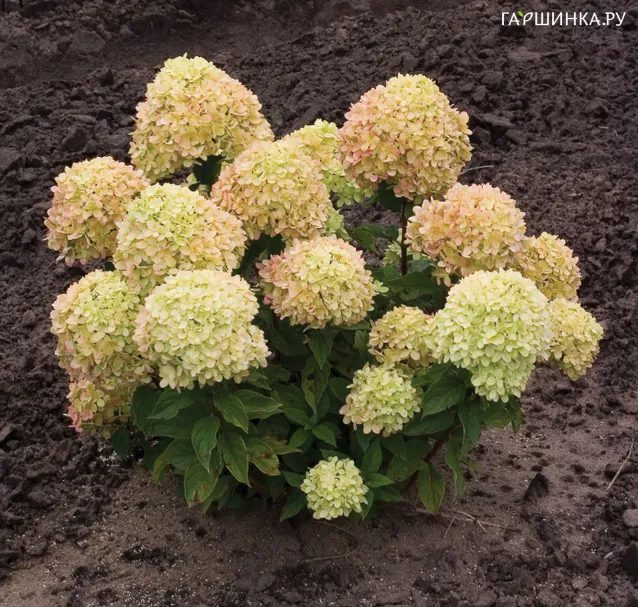
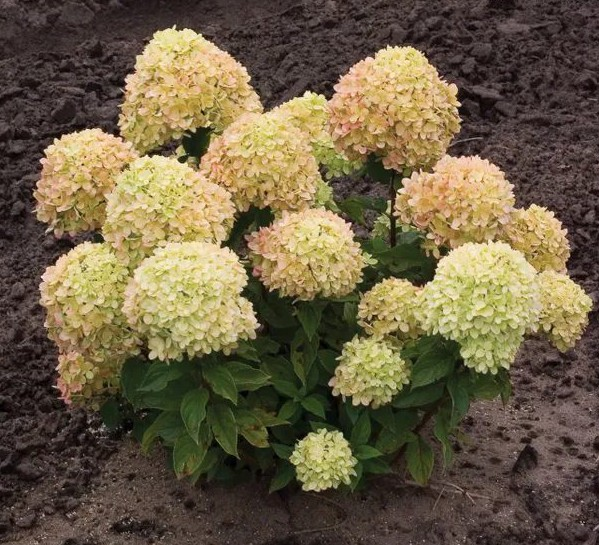
v37: витрина нового сезона — 11 товаров с фото, гарантии, статьи «Посадка и уход», подтверждение заказа, кнопка «Отправить в MAX».  починка корзины (удаление по ключу варианта, ноль убирает строку, без минуса, лимит «+» по остатку), «Выбрать» на карточках с вариантами, краш автовыбора варианта в мод

diff --git a/index.html b/index.html
@@ -169,7 +169,10 @@
             <span class="social-btn__icon social-btn__icon--img" aria-hidden="true"><svg class="max-logo" width="25" height="24" viewBox="0 0 25 24" fill="none" xmlns="http://www.w3.org/2000/svg"><path fill-rule="evenodd" clip-rule="evenodd" d="M12.3405 23.9342C9.97568 23.9342 8.87728 23.5899 6.97252 22.2125C5.76041 23.762 1.94518 24.9672 1.77774 22.9012C1.77774 21.3535 1.42788 20.0492 1.04269 18.6132C0.570922 16.8544 0.0461426 14.898 0.0461426 12.0546C0.0461426 5.27426 5.6424 0.175079 12.2777 0.175079C18.913 0.175079 24.1153 5.52322 24.1153 12.1205C24.1153 18.7178 18.7474 23.9342 12.3405 23.9342ZM12.4368 6.03673C9.20791 5.86848 6.68817 8.0948 6.13253 11.5794C5.6724 14.465 6.48821 17.9812 7.18602 18.1582C7.51488 18.2416 8.35763 17.564 8.87711 17.0475C9.73154 17.5981 10.712 18.0245 11.8019 18.0813C15.1168 18.254 18.0544 15.6761 18.228 12.382C18.4016 9.08792 15.7517 6.20946 12.4368 6.03673Z" fill="currentColor"></path></svg></span>
             <span class="social-btn__label">Канал в MAX</span>
           </a>
-          <p class="contacts__note" id="contacts-phone-label"></p>
+          <a class="social-btn social-btn--tg" href="https://t.me/chydni_sad" target="_blank" rel="noopener noreferrer">
+            <span class="social-btn__icon" aria-hidden="true"><svg width="22" height="22" viewBox="0 0 24 24" fill="#fff"><path d="M21.9 3.4 2.5 10.9c-.9.35-.88 1.63.03 1.95l4.9 1.7 1.9 5.8c.27.83 1.34 1.02 1.88.33l2.7-3.5 4.9 3.6c.78.57 1.9.15 2.1-.8l3-14.9c.24-1.1-.85-2-1.98-1.62zM8.7 13.3l9.2-5.8c.4-.25.8.3.45.62l-7.5 6.8c-.26.24-.43.57-.48.93l-.25 1.83c-.03.25-.38.28-.45.04l-1.05-3.45c-.12-.4.05-.83.4-1.06z"/></svg></span>
+            <span class="social-btn__label">Написать в Telegram</span>
+          </a>
         </div>
       </div>
     </section>
@@ -178,21 +181,20 @@
   <footer class="footer">
     <div class="container footer__inner">
       <span>© <span id="year"></span> Питомник «Чудный сад»</span>
-      <a href="about.html" class="footer__doc" target="_blank" rel="noopener noreferrer">О питомнике</a>
-      <a href="guarantees.html" class="footer__doc" target="_blank" rel="noopener noreferrer">Гарантии</a>
-      <a href="articles.html" class="footer__doc" target="_blank" rel="noopener noreferrer">Посадка и уход</a>
-      <a href="price.html" class="footer__doc" target="_blank" rel="noopener noreferrer">Прайс-лист</a>
-      <a href="offer.html" class="footer__doc" target="_blank" rel="noopener noreferrer">Оферта</a>
-      <a href="privacy.html" class="footer__doc" target="_blank" rel="noopener noreferrer">Политика ПДн</a>
-      <span style="display:inline-flex; gap:10px; align-items:center">
-        <a href="https://max.ru/channel_beautifulGarden" target="_blank" rel="noopener noreferrer" aria-label="Канал в MAX" title="Канал в MAX">
-          <svg width="20" height="20" viewBox="0 0 24 24" fill="none"><rect x="1" y="1" width="22" height="22" rx="6" fill="#8770fe"/><path d="M6 8h12v8h-6.5L8 19v-3H6z" fill="#fff"/></svg>
-        </a>
-        <a href="https://t.me/chydni_sad" target="_blank" rel="noopener noreferrer" aria-label="Канал в Telegram" title="Канал в Telegram">
-          <svg width="20" height="20" viewBox="0 0 24 24" fill="#4aa9e0"><path d="M21.9 3.4 2.5 10.9c-.9.35-.88 1.63.03 1.95l4.9 1.7 1.9 5.8c.27.83 1.34 1.02 1.88.33l2.7-3.5 4.9 3.6c.78.57 1.9.15 2.1-.8l3-14.9c.24-1.1-.85-2-1.98-1.62zM8.7 13.3l9.2-5.8c.4-.25.8.3.45.62l-7.5 6.8c-.26.24-.43.57-.48.93l-.25 1.83c-.03.25-.38.28-.45.04l-1.05-3.45c-.12-.4.05-.83.4-1.06z"/></svg>
-        </a>
-      </span>
       <span class="footer__domain">chudni-sad.ru</span>
+    </div>
+    <div class="container">
+      <nav class="footer-menu" aria-label="Ссылки">
+        <a href="about.html">О питомнике</a><span class="fm-sep"></span>
+        <a href="guarantees.html">Гарантии</a><span class="fm-sep"></span>
+        <a href="articles.html">Посадка и уход</a><span class="fm-sep"></span>
+        <a href="price.html">Прайс-лист</a><span class="fm-sep"></span>
+        <a href="offer.html">Оферта</a><span class="fm-sep"></span>
+        <a href="privacy.html">Политика ПДн</a>
+      </nav>
+    </div>
+    <div class="container" style="margin-top:14px">
+      <div class="ymap"><iframe src="https://yandex.ru/map-widget/v1/?ll=104.294476%2C52.427236&z=15&pt=104.294476,52.427236,pm2rdm" width="100%" height="320" frameborder="0" allowfullscreen="true" loading="lazy" title="Мы на карте"></iframe></div>
     </div>
   </footer>
 

diff --git a/css/style.css b/css/style.css
@@ -1368,6 +1368,26 @@ html.theme-dark .doc-page .doc-back { color: #e08a9d; }
 .footer__doc:hover { color: var(--graffiti-pink); text-decoration: underline; }
 html.theme-dark .footer__doc { color: #a2abb1; }
 
+/* ---------- Футер-меню: лента ссылок (по образцу садовых центров) ---------- */
+.footer-menu {
+  display: flex; flex-wrap: wrap; justify-content: center; align-items: center;
+  padding: 14px 0 2px; margin-top: 10px;
+  border-top: 1px solid rgba(122, 143, 90, .35);
+}
+.footer-menu a {
+  color: var(--forest-deep, #2e4a2e); text-decoration: none;
+  font-size: 15px; font-weight: 500; padding: 6px 13px; border-radius: 999px;
+  transition: background .15s ease, color .15s ease;
+}
+.footer-menu a:hover { background: rgba(122, 143, 90, .18); color: var(--graffiti-pink); }
+html.theme-dark .footer-menu a { color: #c8d3bd; }
+html.theme-dark .footer-menu a:hover { background: rgba(122, 143, 90, .25); }
+.fm-sep { width: 4px; height: 4px; border-radius: 50%; background: var(--moss, #7a8f5a); display: inline-block; margin: 0 4px; }
+
+/* ---------- Яндекс.Карта в контактах ---------- */
+.ymap { border-radius: 14px; overflow: hidden; box-shadow: 0 8px 24px rgba(19, 33, 26, .12); }
+.ymap iframe { display: block; border: 0; }
+
 /* Согласия на обработку ПДн (форма заказа) */
 .agree-row {
   display: flex; align-items: flex-start; gap: 10px;

diff --git a/js/app.js b/js/app.js
@@ -1987,8 +1987,10 @@
   var barMax = document.getElementById("bar-max");
   if (barMax) barMax.href = shop.max;
 
-  var phoneLabel = document.getElementById("contacts-phone-label");
-  if (phoneLabel) phoneLabel.textContent = shop.phone + " · " + shop.contactName;
+  var barMax = document.getElementById("bar-max");
+  if (barMax) barMax.href = shop.max;
+
+  /* строку «телефон · имя» убрали по просьбе хозяйки — телефон есть в кнопке «Позвонить» */
 
   document.getElementById("year").textContent = new Date().getFullYear();
 

diff --git a/data/catalog.js b/data/catalog.js
@@ -1,5 +1,5 @@
 // Каталог «Чудный сад». СГЕНЕРИРОВАНО программой управления — не редактировать руками.
-// Цены в КОПЕЙКАХ. Сгенерировано: 2026-09-11 16:41
+// Цены в КОПЕЙКАХ. Сгенерировано: 2026-09-11 17:31
 window.CATALOG = {
   "categories": [
     "Гортензии",
